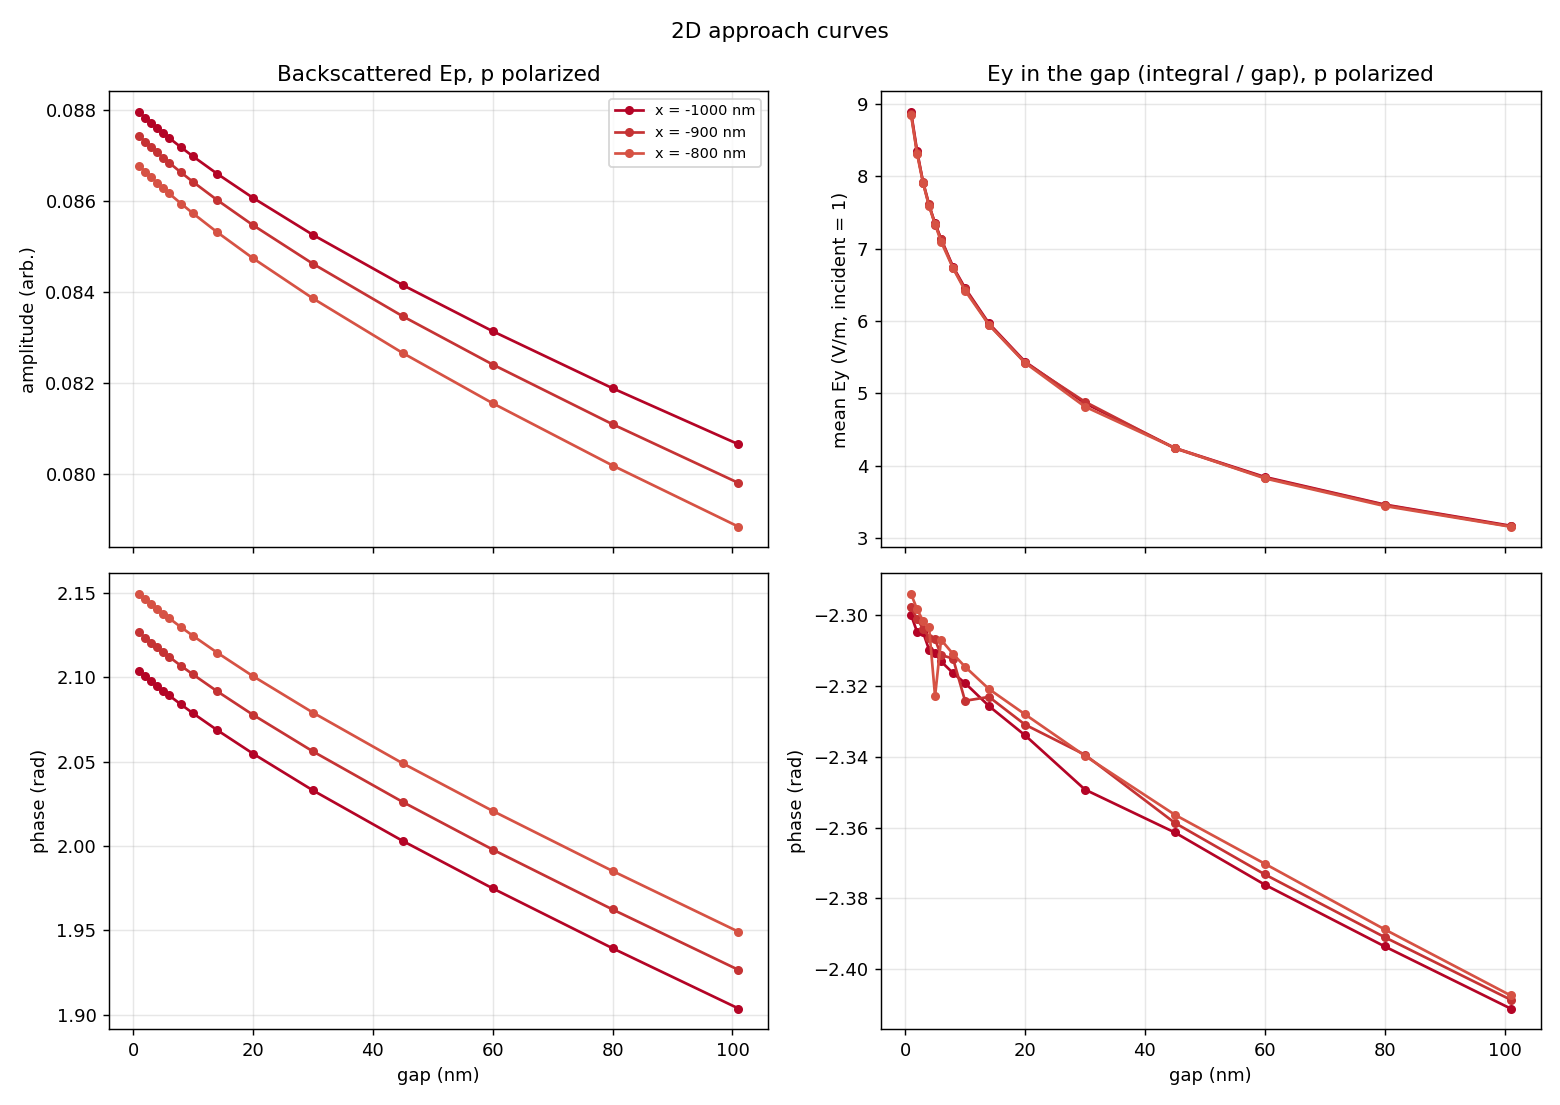
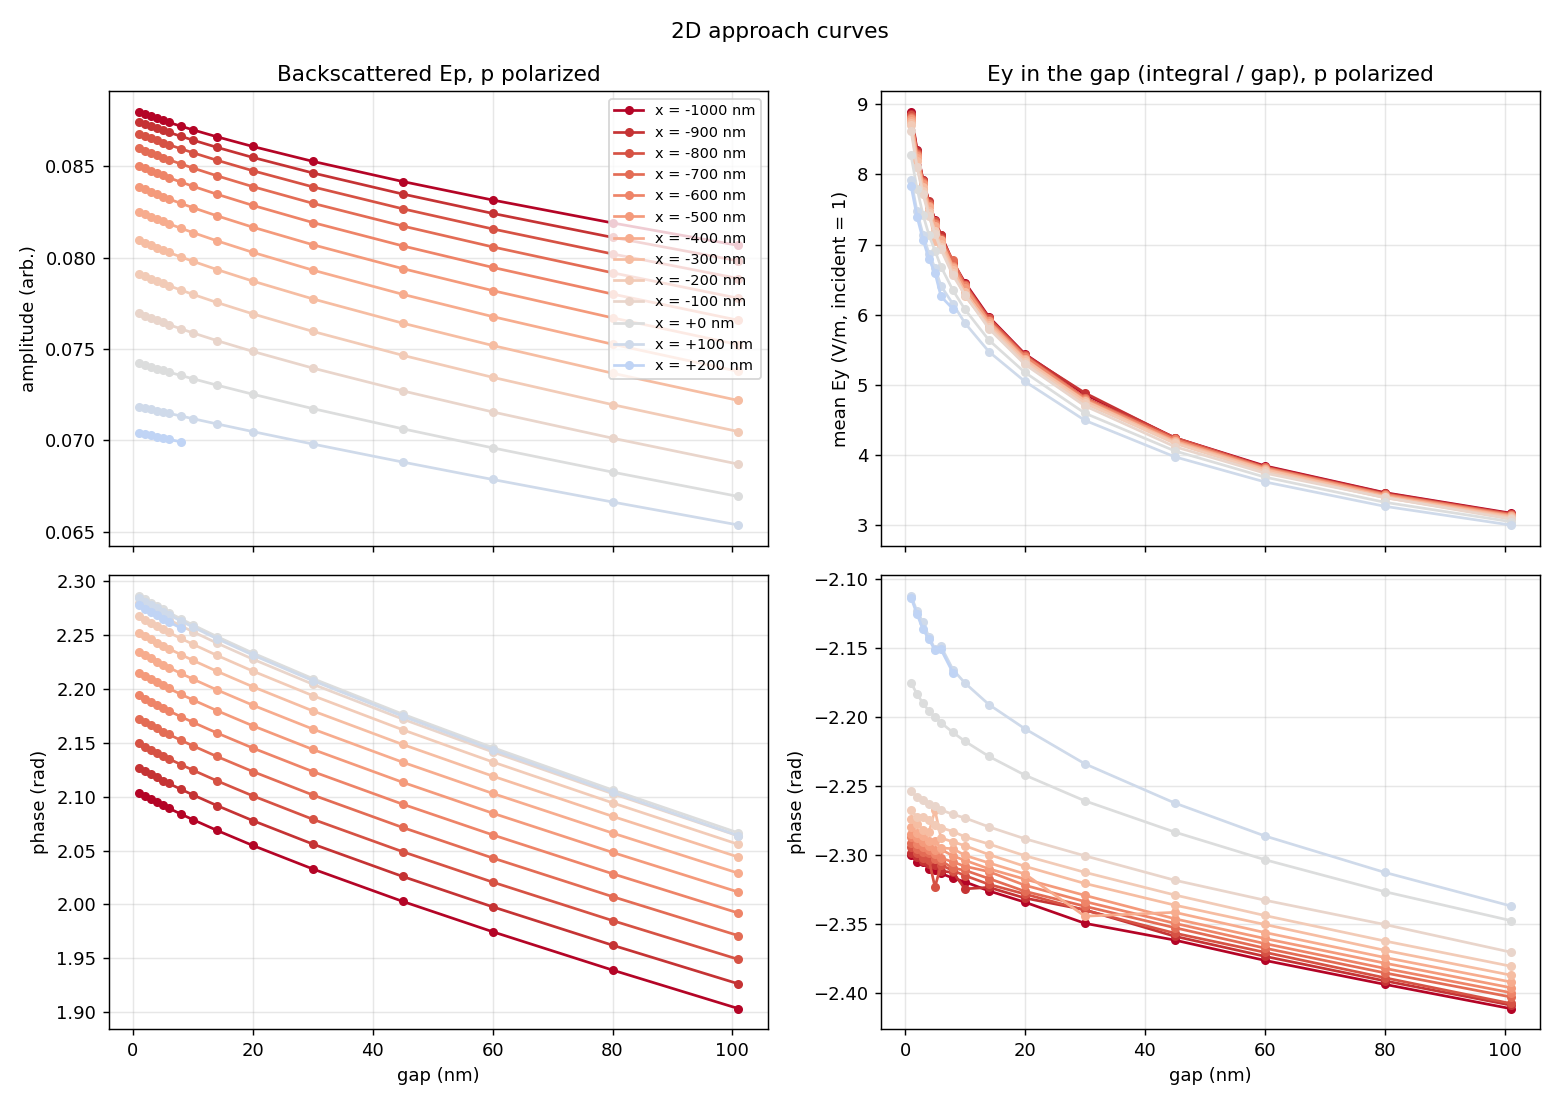
2D: demodulation (S_n vs x) and updated approach curves

diff --git a/Interface_LineScan_2D/plot_2d.py b/Interface_LineScan_2D/plot_2d.py
@@ -127,7 +127,7 @@ def plot_complex(stage, gap=5):
     print('wrote', out)
 
 
-if __name__ == '__main__' and (len(sys.argv) < 2 or sys.argv[1] not in ('ep_sub', 'ep_step', 'ep_lines', 'approach')):
+if __name__ == '__main__' and (len(sys.argv) < 2 or sys.argv[1] not in ('ep_sub', 'ep_step', 'ep_lines', 'approach', 'demod')):
     what = sys.argv[1] if len(sys.argv) > 1 else 'scan_h5'
     plot_scan(what)
     plot_combined(what)
@@ -340,3 +340,57 @@ def plot_approach(logfile=None, xs=None):
 
 if __name__ == '__main__' and len(sys.argv) > 1 and sys.argv[1] == 'approach':
     plot_approach(logfile=sys.argv[2] if len(sys.argv) > 2 else None)
+
+
+TAP_AMPLITUDE = 100     # nm, as in run_2d.py
+MIN_GAP = 1
+
+
+def demodulate(gaps, E, n_t=2000, harmonics=(1, 2, 3, 4)):
+    """S_n: gap(t) = MIN_GAP + A/2 (1 + cos wt), cubic spline through E(gap) (same as the 3D analysis)."""
+    from scipy.interpolate import CubicSpline
+    t = np.linspace(0, 1, n_t, endpoint=False)
+    z = MIN_GAP + TAP_AMPLITUDE/2*(1 + np.cos(2*np.pi*t))
+    Ez = CubicSpline(gaps, E.real)(z) + 1j*CubicSpline(gaps, E.imag)(z)
+    return {n: np.mean(Ez*np.exp(-2j*np.pi*n*t)) for n in harmonics}
+
+
+def plot_demod(logfile=None, harmonics=(2, 3)):
+    """S_n vs x for the backscattered Ep (p in) and the mean gap field, positions with the full height set."""
+    pts = approach_points(logfile=logfile)
+    need = MIN_GAP + TAP_AMPLITUDE
+    rows = []
+    for x in sorted({x for x, g in pts}):
+        gs = np.array(sorted(g for xx, g in pts if xx == x))
+        if len(gs) < 10 or gs.min() > MIN_GAP or gs.max() < need:
+            continue
+        Ep = np.array([pts[(x, g)][0] for g in gs])
+        Gm = np.array([pts[(x, g)][1] for g in gs])/gs
+        rows.append((x, demodulate(gs, Ep), demodulate(gs, Gm)))
+    x = np.array([r[0] for r in rows])
+    fig, ax = plt.subplots(2, 2*len(harmonics), figsize=(5*2*len(harmonics), 7.5), sharex=True)
+    for k, (name, idx) in enumerate((('Backscattered Ep, p polarized', 1), ('Mean Ey in the gap, p polarized', 2))):
+        for j, n in enumerate(harmonics):
+            col = 2*k + j
+            S = np.array([r[idx][n] for r in rows])
+            ax[0, col].plot(x, np.abs(S), 'o-', ms=4)
+            ax[0, col].set_title(f'{name}: S{n}', fontsize=10)
+            ax[0, col].set_ylabel('amplitude')
+            ax[1, col].plot(x, np.unwrap(np.angle(S)), 'o-', ms=4, color='C1')
+            ax[1, col].set_ylabel('phase (rad)')
+            ax[1, col].set_xlabel('interface position x (nm)   oil  <  0  <  water')
+            for a in ax[:, col]:
+                a.axvline(0, color='0.6', lw=0.8)
+                a.grid(alpha=0.3)
+    fig.suptitle(f'2D demodulated signal (tapping {TAP_AMPLITUDE} nm from {MIN_GAP} nm)')
+    fig.tight_layout()
+    out = os.path.join(FIGS, 'demod_vs_x.png')
+    fig.savefig(out, dpi=130)
+    print('wrote', out)
+    for r in rows:
+        print(f"{r[0]:+6.0f}  " + '  '.join(f"S{n} |{abs(r[1][n]):.4e}| {np.angle(r[1][n]):+.4f}" for n in harmonics)
+              + '   gap: ' + '  '.join(f"S{n} |{abs(r[2][n]):.4f}| {np.angle(r[2][n]):+.4f}" for n in harmonics))
+
+
+if __name__ == '__main__' and len(sys.argv) > 1 and sys.argv[1] == 'demod':
+    plot_demod(logfile=sys.argv[2] if len(sys.argv) > 2 else None)
